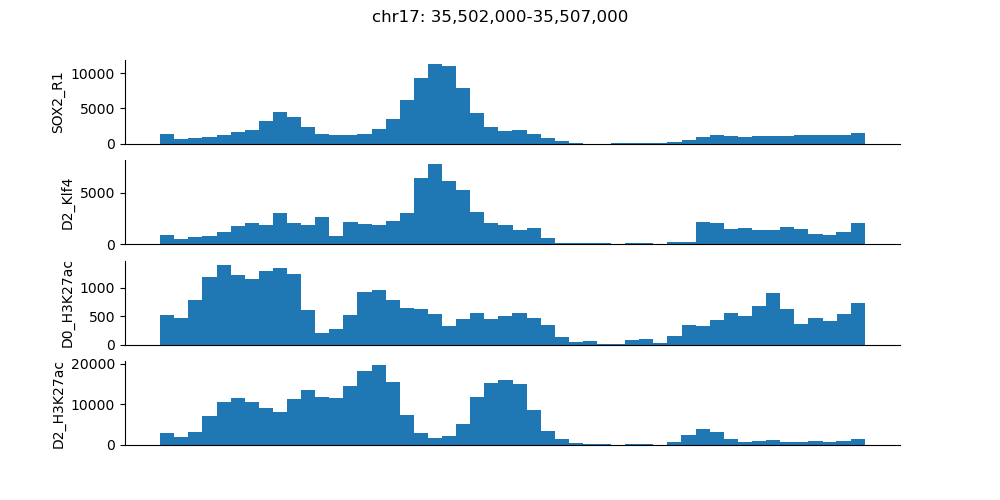
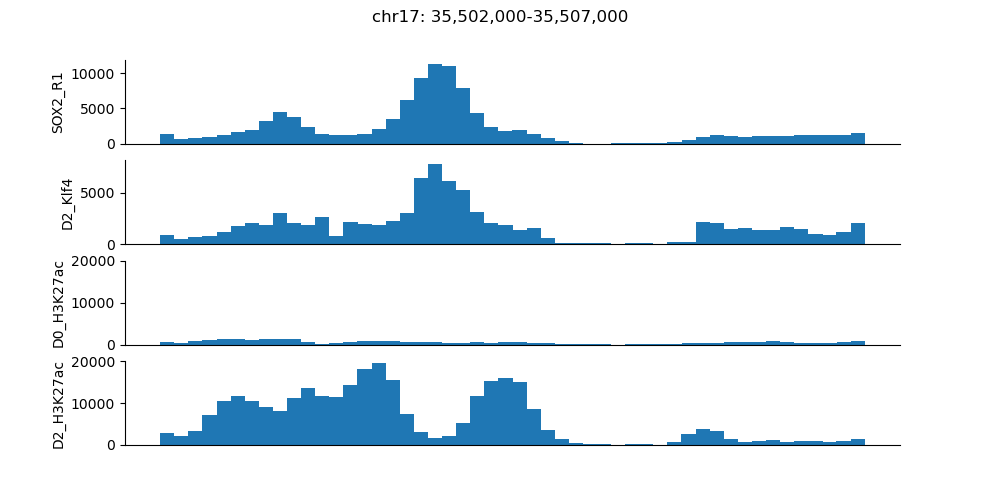
final update

diff --git a/week5-homework/Q1_STEP5.py b/week5-homework/Q1_STEP5.py
@@ -1,0 +1,35 @@
+#!/usr/bin/env python
+
+# Usage: python Q1_STEP5.py _scaled_cropped.bdg
+
+import sys
+import matplotlib.pyplot as plt
+import numpy as np
+from bdg_loader import load_data
+import glob
+
+bdg_fn_list = glob.glob('*' + str(sys.argv[1]))
+# bdg_fn_list = ['D0_H3K27ac_treat_scaled_cropped.bdg']
+# bdg_fn_list = ['test.bdg']
+bdg_fn_list.sort(reverse = True)
+bdg_fn_list[2], bdg_fn_list[3] = bdg_fn_list[3], bdg_fn_list[2]
+# print(bdg_fn_list)
+
+fig = plt.figure(figsize=(10, 5))
+fig.suptitle('chr17: 35,502,000-35,507,000')
+for index, bdg_fn in enumerate(bdg_fn_list):
+	data = load_data(bdg_fn)
+	# print(data)
+	ax = fig.add_subplot(4,1,index + 1)
+	ax.bar(data['X'], data['Y'], width = 101.0)
+	ax.set_xticks([])
+	ax.set_ylabel(bdg_fn.split('_treat')[0])
+	ax.spines['top'].set_visible(False)
+	ax.spines['right'].set_visible(False)
+	if index in [2, 3]:
+		ax.set_ylim([0, 20000])
+
+# plt.show()
+fig.savefig('Q1_STEP5.png')
+fig.savefig('Q1_STEP5.pdf', format = 'pdf')
+plt.close(fig)

diff --git a/week5-homework/README.md b/week5-homework/README.md
@@ -24,7 +24,23 @@ Percentage = 41/60 = 68.33%
 STEP5:  
 A bash script is wrote to do this step.  
 `bash Q1_STEP5.sh`  
+`python Q1_STEP5.py _scaled_cropped.bdg`  
 ![Example](Q1_STEP5.png)  
 Example figure  
 
 # Q2.  
+`conda activate meme`  
+`conda install -c conda-forge openmpi=4.1.4 -y`  
+`ln -s /Users/cmdb/data/genomes/mm10.fa ./`  
+`sort -k 5 -r -n intersect | head -300 > intersect_sorted_300`  
+`awk '{ printf "%s:%i-%i\n", $1, $2, $3 }' intersect_sorted_300 > intersect_sorted_300_formated`  
+`samtools faidx mm10.fa -r intersect_sorted_300_formated -o intersect_peak_sequences.fa`  
+`meme-chip -maxw 7 intersect_peak_sequences.fa -oc chip_output`  
+  
+# Q3.  
+`tar -xf motif_databases.12.23.tar`  
+`tomtom ./chip_output/combined.meme ./motif_databases/MOUSE/HOCOMOCOv11_full_MOUSE_mono_meme_format.meme -oc tomtom_output`  
+![Example](Q3.png)  
+Example figure  
+`grep "KLF4_" ./tomtom_output/tomtom.tsv | cat header.txt - > klf4_matches.txt`  
+`grep "SOX2_" ./tomtom_output/tomtom.tsv | cat header.txt - > sox2_matches.txt`
